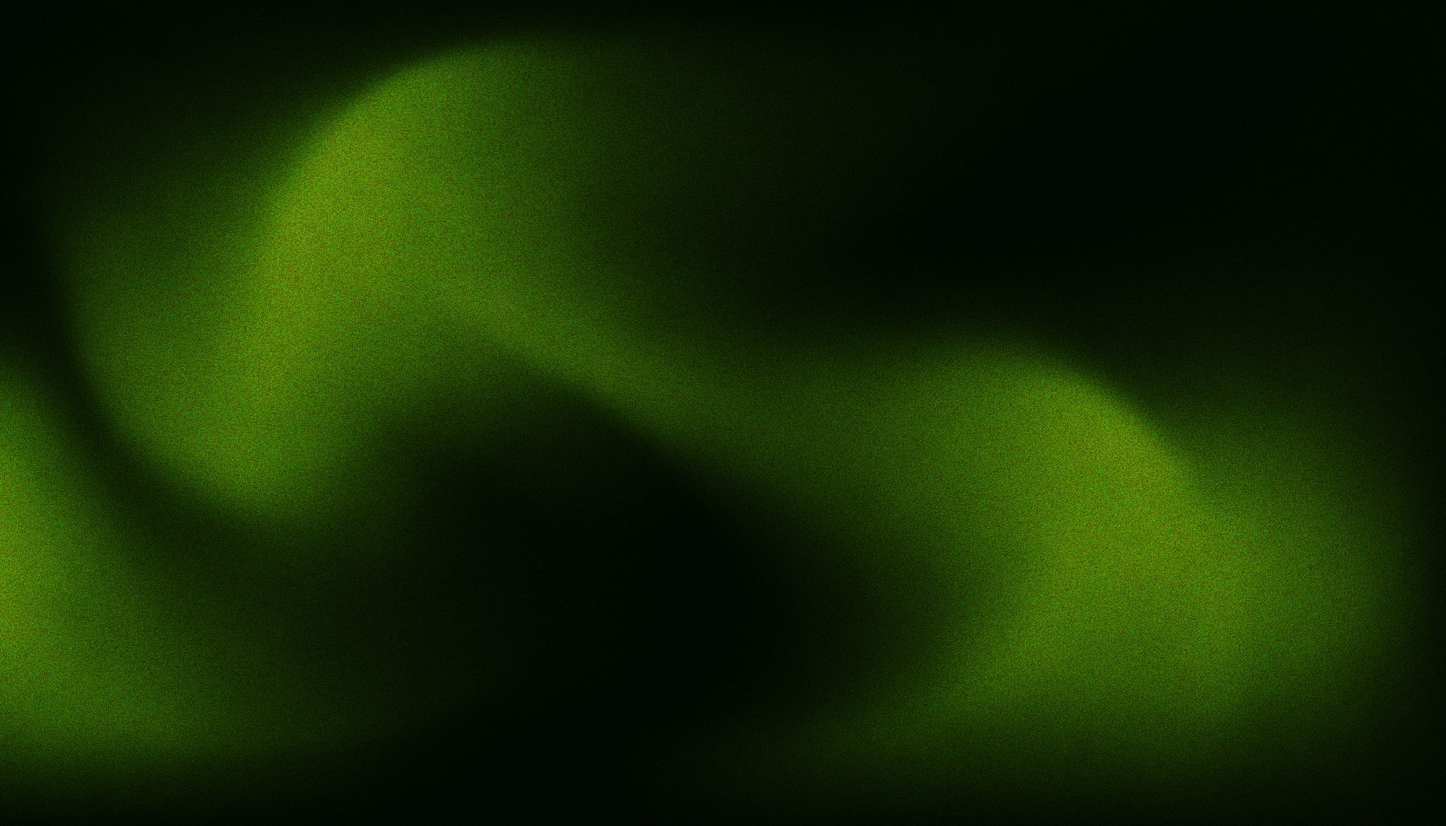
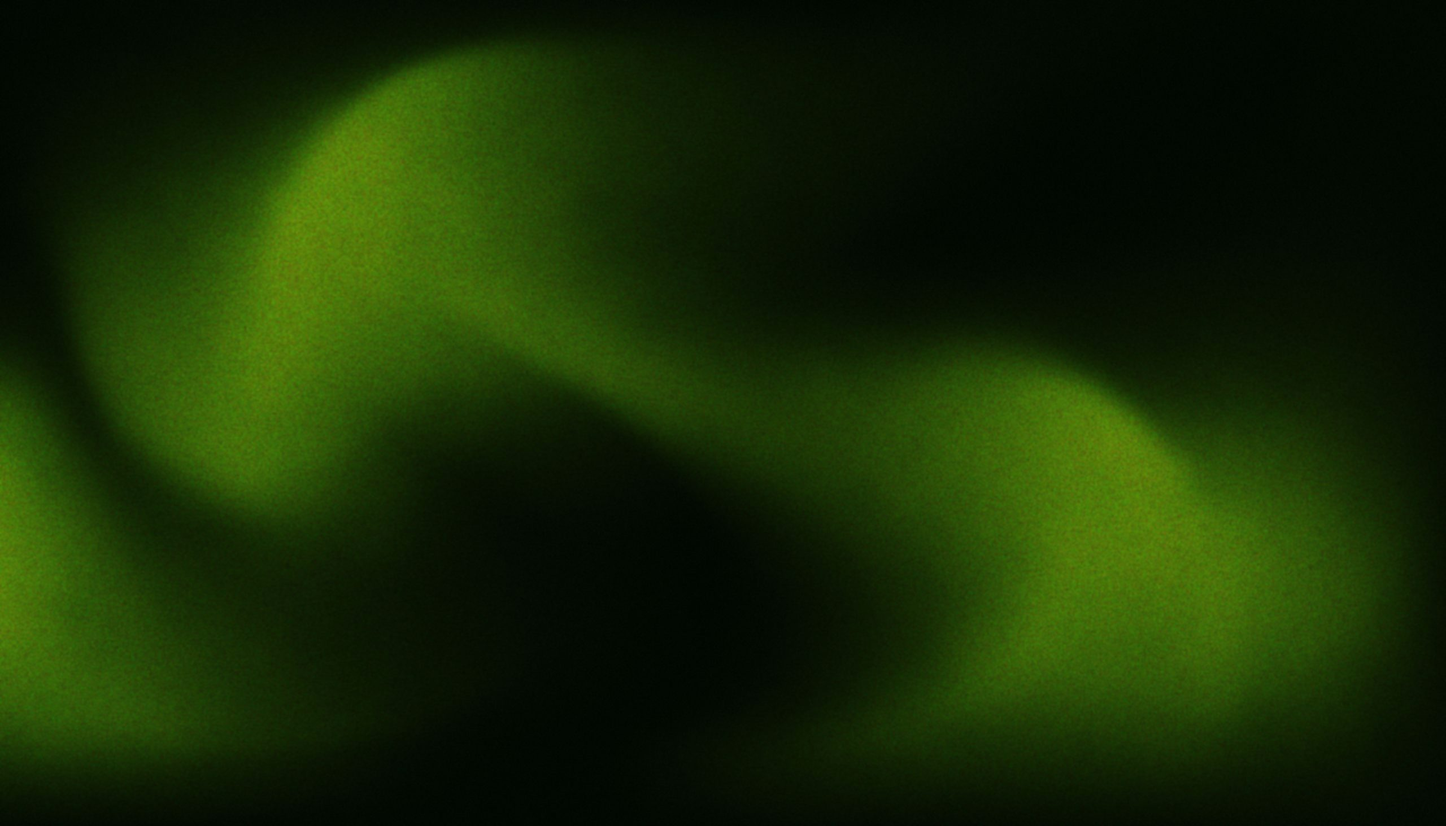
Soften background grain (slight blur on gradient.jpg)

Changed region(s): [[0.0938, 0.0923, 0.375, 0.5844], [0.6562, 0.4614, 0.9062, 0.8305], [0.0, 0.5229, 0.0625, 0.8612]]

diff --git a/strategy-hub/option-d/index.html b/strategy-hub/option-d/index.html
@@ -1431,7 +1431,7 @@ body{padding-left:0}
   /* The first slide's button is long; let it wrap on small screens instead of running off the edge. */
   @media(max-width:700px){#dash .engine-wrap .annoslide .gpill{max-width:100%;box-sizing:border-box;white-space:normal;text-align:left;line-height:1.3;border-radius:28px}}
   /* Backdrop: gradient.jpg tinted to the site navy (#00003d) with a colour-blend overlay, fixed to the viewport and clipped to this band. */
-  #dash .ai-bg{position:fixed;inset:0;z-index:0;pointer-events:none;overflow:hidden;background:#000 url(/strategy-hub/img/gradient.jpg?v=1) center/cover no-repeat;filter:brightness(.72)}
+  #dash .ai-bg{position:fixed;inset:0;z-index:0;pointer-events:none;overflow:hidden;background:#000 url(/strategy-hub/img/gradient.jpg?v=2) center/cover no-repeat;filter:brightness(.72)}
   #dash .ai-bg::after{content:"";position:absolute;inset:0;background:#00003d;mix-blend-mode:color}
   #dash .ai-stage-in{position:relative;z-index:1;width:100%;max-width:1280px;margin:0 auto;padding:116px 28px clamp(48px,7vw,96px);box-sizing:border-box}
   /* Centre the hero copy and the ask card on the screen (same 1280px / 28px container as the nav). */
